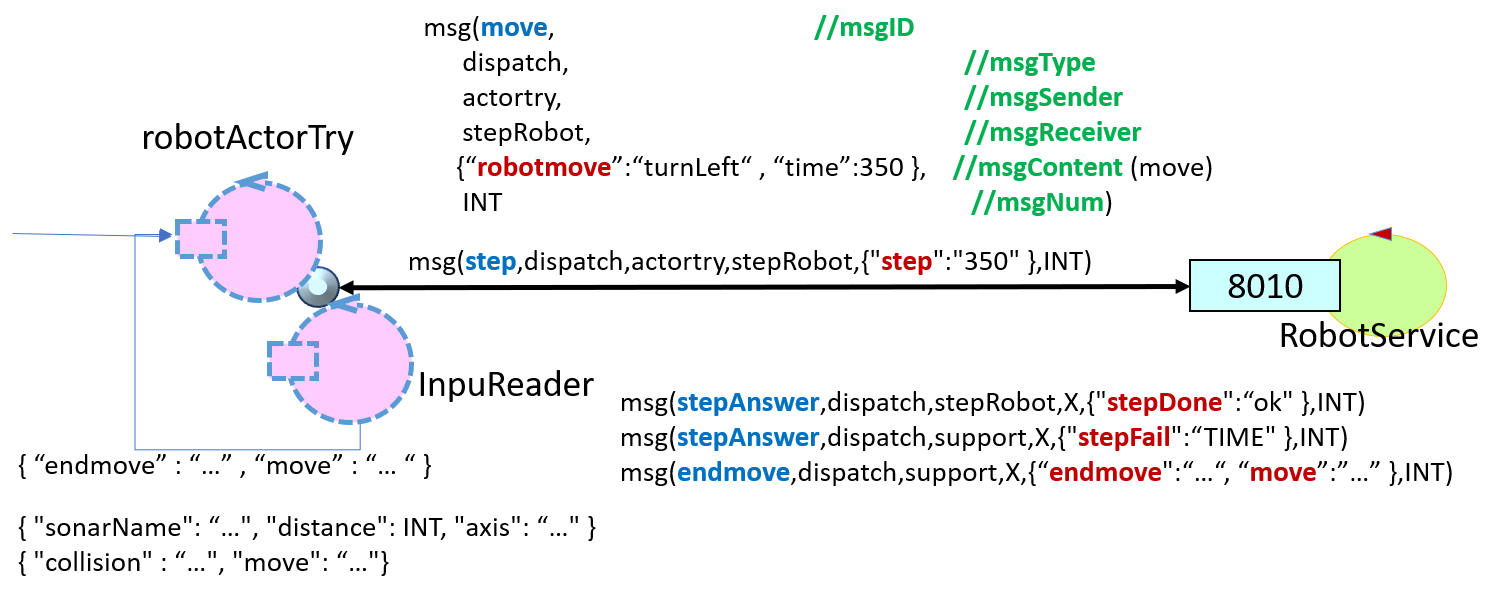
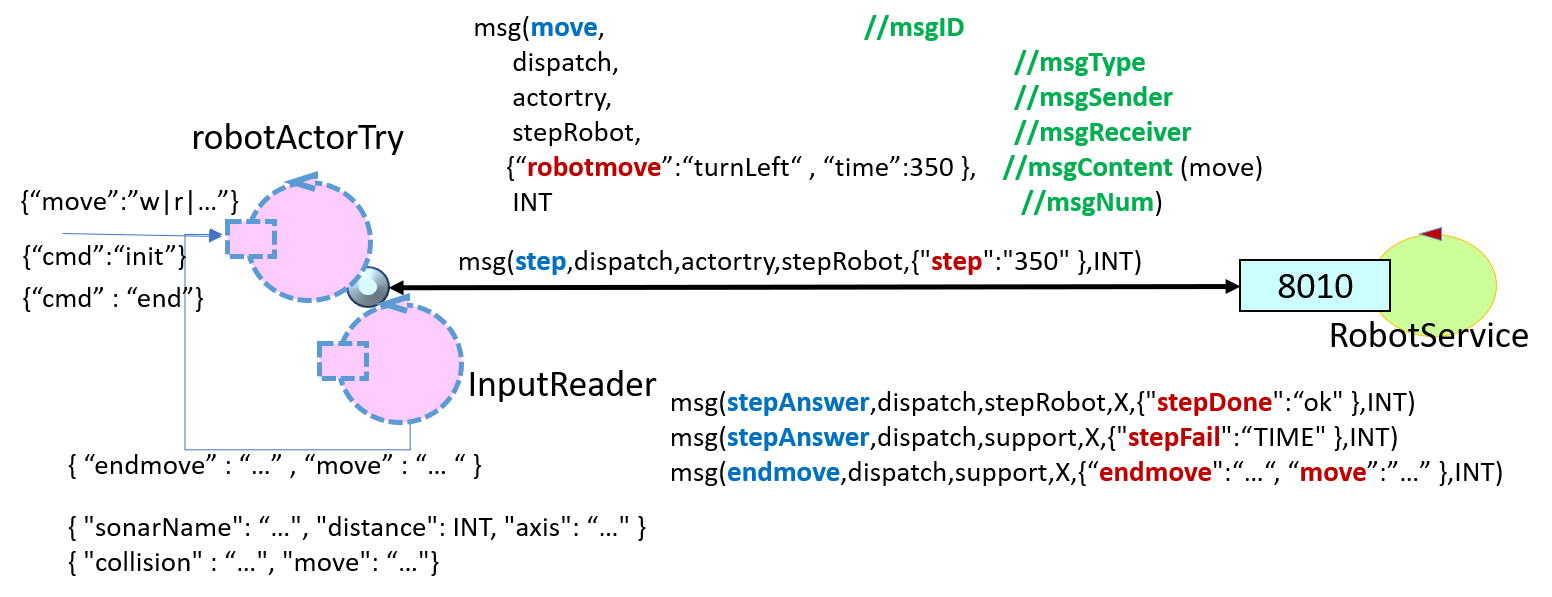
irstActorRobot2021.html

diff --git a/it.unibo.kotlinIntro/userDocs/FirstActorRobot2021.html b/it.unibo.kotlinIntro/userDocs/FirstActorRobot2021.html
@@ -207,31 +207,57 @@ of a software system designer should be that of making the code of a robot appli
 <bc>as much independent as possible from the robot technology</bc>, in order to make it easier the substitution of a robot type with another.
 <br/><br/> 
 Kotlin actors help us to achieve such a goal, by providing in a quite natural way a <bc>more abstract layer of reasoning</bc>.
- <br/>
-Let us report, as an example,  an actor written in Kotlin that sends commands to our
-<a href="../../it.unibo.kotlinSupports/userDocs/RobotService.html" target="web">RobotService</a>:<br/><br/>
 
-<center><table style="width:95%"> 
+<h2>Divide et impera?</h2>
+
+<center><table style="width:95%">
 <tbody>	
+
 <tr>
-<td style="width:30%">
-<h4>A Koltin actor at work</h3>
-<a href="../app/src/main/kotlin/robotWithActors/robotActorTry.kt" target="code">robotActorTry.kt</a><br/><br/>
-<m>An example of usage is in:
-<a href="../app/src/main/kotlin/robotWithActors/MainRobotActorTry.kt" target="code">MainRobotActorTry.kt</a>
-</m>
+<td style="width:40%"><h3>Step+Basic: case 0</h3>
+<center><img src="./img/RobotUsageCall.png" alt="RobotUsageCall" width="80%" ></center>
+ </td>
+<td> 
+<center><img src="./img/StepAndBasic.png" alt="StepAndBasic" width="60%" ></center>
+</td>
+</tr>
+
+<tr>
+<td><h3>Step+Basic: case 1</h3>
+
+<pre></pre>
+
 </td>
 <td>
-<center><img src="./img/robotActorTry.png" alt="robotActorTry" width="100%" height="60%"></center>
-
-
- </td>
+<center><img src="./img/StepAndBasicArch1.png" alt="StepAndBasicArch1" width="80%" ></center> 
+</td>
 </tr>
+
+<tr>
+<td><h3>Step+Basic: case 2</h3>
+</td>
+<td>
+<center><img src="./img/StepAndBasicArch2.png" alt="StepAndBasicArch2" width="90%" ></center> 
+</td>
+</tr>
+
+
+<tr>
+<td><h3>Step+Basic: case 3</h3>
+<center><img src="./img/RobotUsageCall.png" alt="RobotUsageCall" width="60%" ></center>
+</td>
+<td>
+<!-- <center><img src="./img/BasicAndStepArch.png" alt="BasicAndStepArch" width="60%" ></center>  -->
+<center><img src="../../it.unibo.kotlinSupports/userDocs/img/BasicStepRobotActor.png" alt="BasicStepRobotActor" width="100%"  ></center>
+
+</td>
+</tr>
+
+
 </tbody>	
 </table></center>
 
-<br/>
-<h3 id="msgstandard">Towards standards in messaging</h3>
+<h2 id="msgstandard">Towards standards in messaging</h2>
 
 We note that the interaction with the <a href="../../it.unibo.kotlinSupports/userDocs/RobotService.html" target="web">RobotService</a> requires
 the usage of messages of type  <a href="../../it.unibo.kotlinSupports/app/src/main/kotlin/it/unibo/actor0/ApplMessage.kt" target="code">ApplMessage.kt</a>
@@ -312,9 +338,35 @@ We remember that , we use our specific <em> high-level robot-move language</em>:
 </div>
 
 
-<hr/>
+ 
+<h2>Towards a robot service</h2>
+ <br/>
+Let us report, as an example,  an actor written in Kotlin that sends commands to our
+<a href="../../it.unibo.kotlinSupports/userDocs/RobotService.html" target="web">RobotService</a>:<br/><br/>
 
-<h3>The KotlinActor <a href="../app/src/main/kotlin/robotWithActors/robotActorTry.kt" target="code">robotActorTry.kt</a> as <a href="https://en.wikipedia.org/wiki/Finite-state_machine" target="web">Finite State Machine</a></a></h3>
+<center><table style="width:95%"> 
+<tbody>	
+<tr>
+<td style="width:30%">
+<h4>A Koltin actor at work</h3>
+<a href="../app/src/main/kotlin/robotWithActors/robotActorTry.kt" target="code">robotActorTry.kt</a><br/><br/>
+<m>An example of usage is in:
+<a href="../app/src/main/kotlin/robotWithActors/MainRobotActorTry.kt" target="code">MainRobotActorTry.kt</a>
+</m>
+</td>
+<td>
+<center><img src="./img/robotActorTry.png" alt="robotActorTry" width="100%" height="60%"></center>
+
+
+ </td>
+</tr>
+</tbody>	
+</table></center>
+
+<br/>
+
+<h3>The KotlinActor <a href="../app/src/main/kotlin/robotWithActors/robotActorTry.kt" target="code">robotActorTry.kt</a> 
+as <a href="https://en.wikipedia.org/wiki/Finite-state_machine" target="web">Finite State Machine</a></a></h3>
 The behavior of the <a href="../app/src/main/kotlin/robotWithActors/robotActorTry.kt" target="code">robotActorTry.kt</a> 
 can be modelled as a a <em>message-driven</em>  
 <a href="https://en.wikipedia.org/wiki/Finite-state_machine" target="web">Finite State Machine</a>
@@ -342,7 +394,7 @@ where each <bc>state</bc> is mapped into a <em>function</em> whose body specifie
 
 </td>
 <td>
-<center><img src="./img/robotActorFsm.png" alt="robotActorFsm" width="90%"  ></center><br/>
+<center><img src="./img/robotActorFsm.png" alt="robotActorFsm" width="60%"  ></center><br/>
  </td>
 </tr>
 </tbody>	

diff --git a/it.unibo.kotlinSupports/app/src/main/kotlin/it/unibo/robotService/BasicRobotActor.kt b/it.unibo.kotlinSupports/app/src/main/kotlin/it/unibo/robotService/BasicRobotActor.kt
@@ -107,54 +107,5 @@ open class BasicRobotActor(name: String,  wenvAddr: String="wenv", scope: Corout
         updateObservers(answer) //a way to induce ActorContextTcpServer to send info to the sender
     }
 
-
-
-
-/*
-     }else{ //work
-         val msgJson = JSONObject( msg.msgContent.replace("@",",") )  //HORRIBLE trick
-         println( "$name | handleInput msgJson=" + msgJson)
-         if (msgJson.has("robotmove")) {
-
-         }else if (msgJson.has("robotmove")) { //"{\"robotmove\":\"turnLeft\", \"time\": 300}"
-             //The BasicRobotActor is engaged
-             if( ! engaged ) {
-                 engaged = true
-                 println("$name | send msgJson:$msgJson"   )
-                 support.forward(msgJson.toString())
-             }else{
-                 println( "$name | WARNING: alrady engaged"  )
-             }
-        }else if (msgJson.has(ApplMsgs.endMoveId)) {
-             val moveres  = msgJson.getString(ApplMsgs.endMoveId)
-             val movedone = msgJson.getString("move")
-             val payload  = "{\"${ApplMsgs.endMoveId}\":\"${moveres}\"@\"move\":\"$movedone\"}"
-             val answer   = MsgUtil.buildDispatch(name, ApplMsgs.endMoveId, payload, sender)
-             println("$name | send answer:" + answer)
-             if (engaged) {
-                 updateObservers(answer)
-                 engaged = false
-             }
-        }else if ( msgJson.has("sonarName")){
-            println("$name BasicRobotActor |  handleInput:$msgJson")
-            //val answerStr = "msg( MSGID, MSGTYPE, SENDER, RECEIVER, CONTENT, SEQNUM )"
-            val sonarName = msgJson.getString("sonarName")
-            val distance  = msgJson.getInt("distance").toString()
-            val sonarData = "${sonarName}_$distance"
-            val payload   = "{'sonarInfo':'${sonarData}'}"
-            val answer = MsgUtil.buildDispatch(name,"sonarInfo",payload, sender)
-             if( engaged ) this.updateObservers(answer)
-        }else if(msgJson.has("collision")) {
-            val payload   = "{'collision':'detected'}"
-            val answer = MsgUtil.buildDispatch(name,"collision", payload, sender)
-            println( "$name | send answer:" + answer)
-            if( engaged ) this.updateObservers(answer)
-        }
-
-    }//else work
-*/
-
-
-
 }
 
